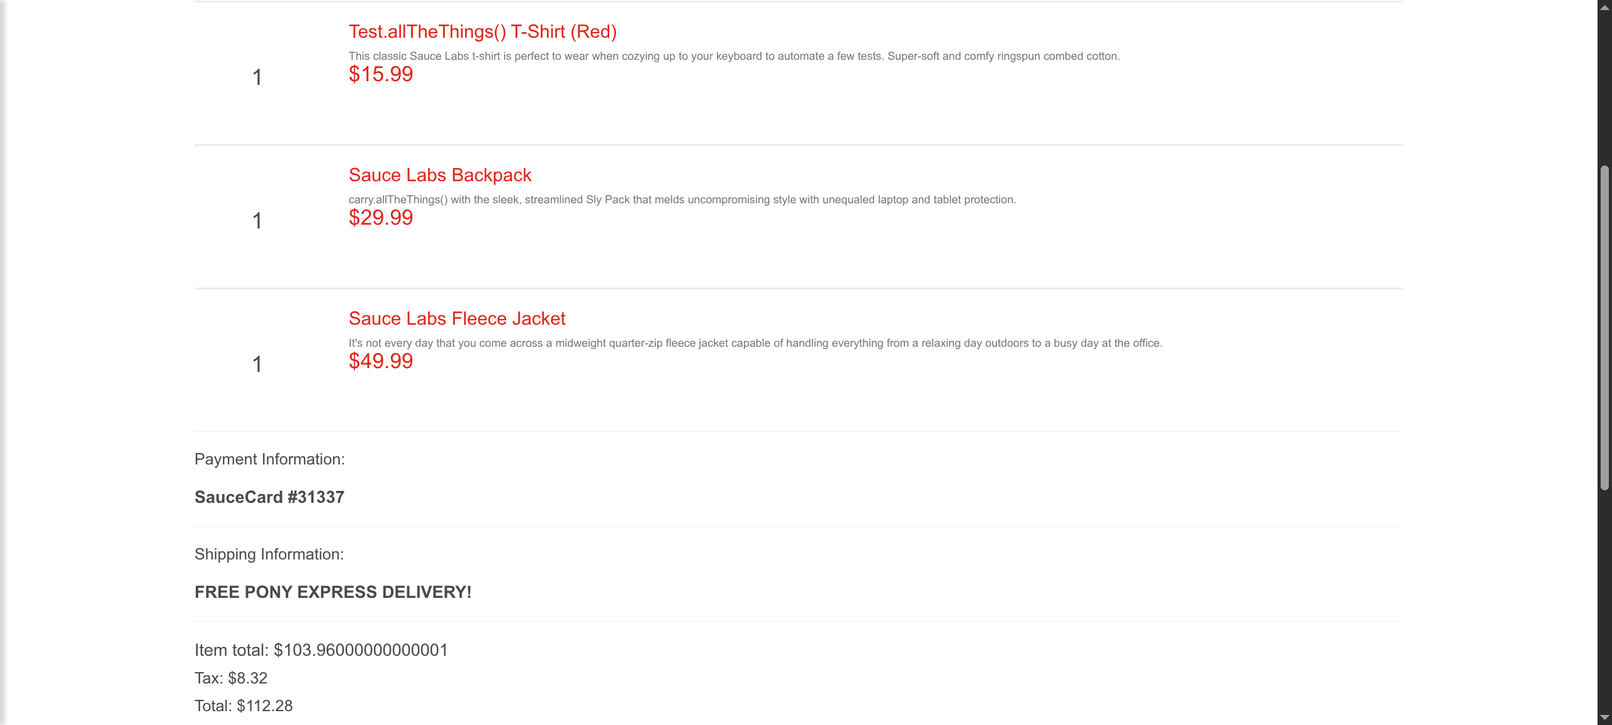
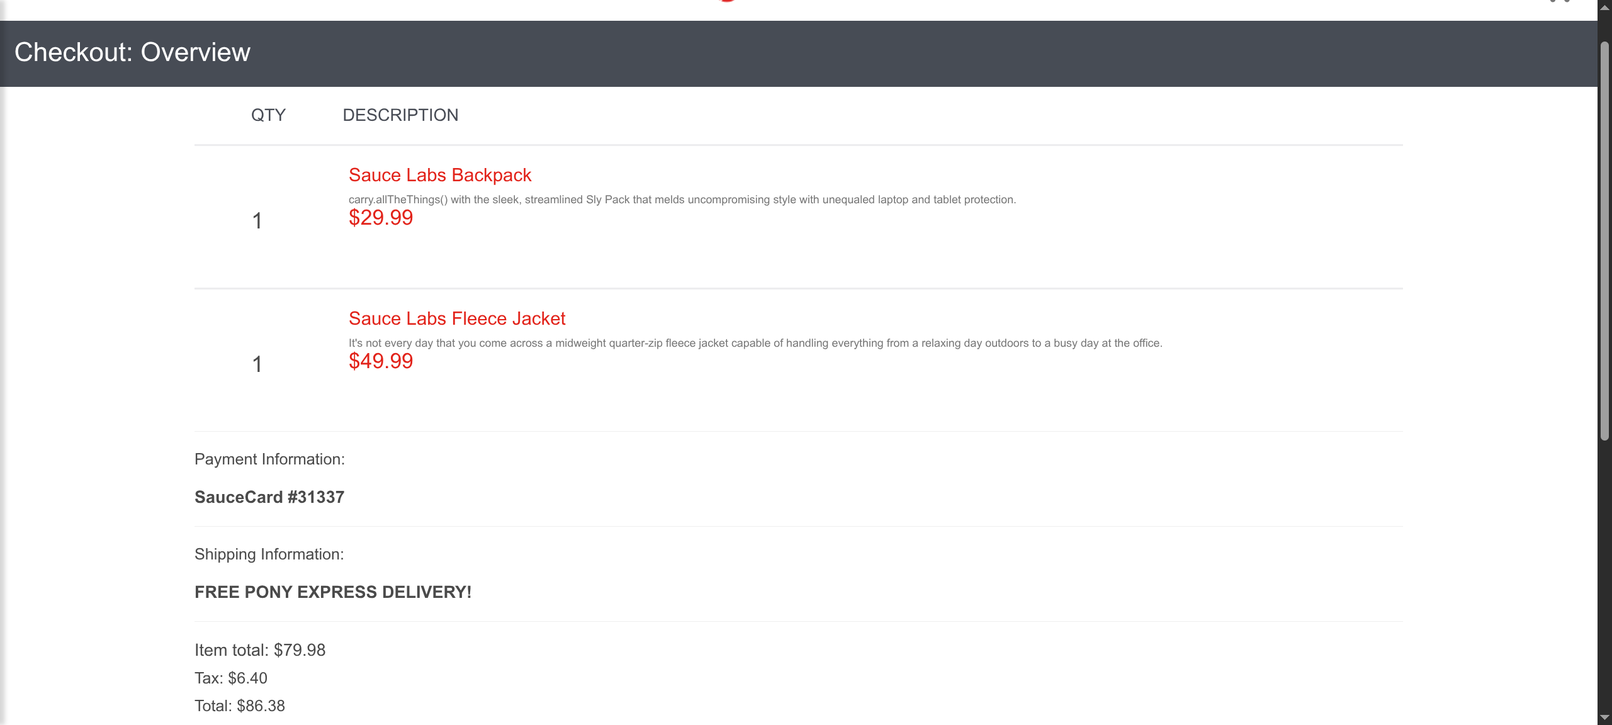
Code sanitization

diff --git a/log.html b/log.html
@@ -2074,25 +2074,25 @@ storage = function () {
 window.output = {};
 </script>
 <script type="text/javascript">
-window.output["suite"] = [1,2,3,0,[],[1,0,1750],[],[[4,0,5,[],[1,56,1694],[[0,6,0,0,0,0,0,0,[1,56,778],[[0,7,8,0,9,10,0,0,[1,57,612],[[57,2,11]]],[0,12,8,0,13,0,0,0,[1,668,12],[]],[0,14,8,0,15,16,0,0,[1,681,153],[[834,2,17]]]]],[0,18,0,0,0,0,0,0,[1,834,195],[[0,19,20,0,0,0,21,0,[1,835,6],[[0,22,20,0,0,0,23,0,[1,835,5],[[0,24,8,0,25,26,27,0,[1,835,4],[[839,2,28]]],[0,29,30,0,31,27,32,0,[1,839,0],[[839,2,33],[840,2,34]]],[8,0,0,0,0,32,0,0,[1,840,0],[]],[840,2,35]]],[0,36,30,0,37,38,39,0,[1,840,0],[[840,2,40]]],[0,36,30,0,37,41,21,0,[1,840,0],[[840,2,42]]],[8,0,0,0,0,21,0,0,[1,841,0],[]],[841,2,42]]],[0,24,8,0,25,43,44,0,[1,841,4],[[845,2,45]]],[3,46,0,0,0,0,0,0,[1,845,55],[[4,47,0,0,0,0,0,0,[1,845,18],[[0,48,8,0,49,50,0,0,[1,845,18],[[845,2,51]]]]],[4,52,0,0,0,0,0,0,[1,863,14],[[0,48,8,0,49,50,0,0,[1,863,14],[[863,2,53]]]]],[4,54,0,0,0,0,0,0,[1,877,11],[[0,48,8,0,49,50,0,0,[1,877,11],[[877,2,55]]]]],[4,56,0,0,0,0,0,0,[1,888,12],[[0,48,8,0,49,50,0,0,[1,888,12],[[888,2,57]]]]]]],[0,58,8,0,59,60,0,0,[1,900,56],[[900,2,61]]],[0,62,8,0,63,64,0,0,[1,956,2],[]],[0,14,8,0,15,65,0,0,[1,958,71],[[1029,2,66]]]]],[0,67,0,0,0,0,0,0,[1,1030,549],[[0,58,8,0,59,68,0,0,[1,1030,54],[[1030,2,69]]],[0,62,8,0,63,70,0,0,[1,1085,2],[]],[0,71,8,0,72,73,0,0,[1,1086,26],[[1087,2,74]]],[0,71,8,0,72,75,0,0,[1,1113,18],[[1113,2,76]]],[0,71,8,0,72,77,0,0,[1,1131,24],[[1131,2,78]]],[0,79,8,0,80,81,0,0,[1,1155,59],[[1155,2,82]]],[0,62,8,0,63,83,0,0,[1,1214,2],[]],[0,84,8,0,85,86,0,0,[1,1216,7],[]],[0,87,8,0,88,86,0,0,[1,1223,256],[]],[0,14,8,0,15,89,0,0,[1,1479,100],[[1579,2,90]]]]],[0,91,0,0,0,0,0,0,[1,1579,34],[[0,92,20,0,0,86,93,0,[1,1580,7],[[0,94,8,0,95,96,97,0,[1,1580,6],[[1586,2,98]]],[0,99,100,0,101,102,103,0,[1,1586,0],[[1586,2,104]]],[0,105,30,0,106,107,108,0,[1,1587,0],[[1587,2,109]]],[0,110,30,0,111,108,108,0,[1,1587,0],[[1587,2,109]]],[8,0,0,0,0,108,0,0,[1,1587,0],[]],[1587,2,112]]],[0,113,20,0,0,114,115,0,[1,1587,26],[[0,24,8,0,25,116,117,0,[1,1587,3],[[1591,2,118]]],[0,24,8,0,25,119,120,0,[1,1591,3],[[1594,2,121]]],[0,122,123,0,124,125,126,0,[1,1594,0],[[1594,2,127]]],[0,128,30,0,129,0,115,0,[1,1594,0],[[1595,2,130]]],[3,131,0,0,0,0,0,0,[1,1595,18],[[4,132,0,0,0,0,0,0,[1,1595,4],[[0,94,8,0,95,133,97,0,[1,1595,3],[[1597,2,134]]],[0,99,100,0,101,102,103,0,[1,1598,0],[[1598,2,135]]],[0,105,30,0,106,107,108,0,[1,1598,0],[[1598,2,136]]],[0,110,30,0,111,108,108,0,[1,1598,0],[[1598,2,136]]],[0,137,123,0,138,139,0,0,[1,1598,0],[]]]],[4,140,0,0,0,0,0,0,[1,1598,3],[[0,94,8,0,95,133,97,0,[1,1599,2],[[1601,2,141]]],[0,99,100,0,101,102,103,0,[1,1601,0],[[1601,2,142]]],[0,105,30,0,106,107,108,0,[1,1601,0],[[1601,2,143]]],[0,110,30,0,111,108,108,0,[1,1601,0],[[1601,2,143]]],[0,137,123,0,138,139,0,0,[1,1601,0],[]]]],[4,144,0,0,0,0,0,0,[1,1602,3],[[0,94,8,0,95,133,97,0,[1,1602,2],[[1603,2,145]]],[0,99,100,0,101,102,103,0,[1,1604,0],[[1604,2,146]]],[0,105,30,0,106,107,108,0,[1,1604,0],[[1604,2,147]]],[0,110,30,0,111,108,108,0,[1,1604,0],[[1604,2,147]]],[0,137,123,0,138,139,0,0,[1,1604,0],[]]]],[4,148,0,0,0,0,0,0,[1,1604,4],[[0,94,8,0,95,133,97,0,[1,1604,3],[[1608,2,149]]],[0,99,100,0,101,102,103,0,[1,1608,0],[[1608,2,150]]],[0,105,30,0,106,107,108,0,[1,1608,0],[[1608,2,151]]],[0,110,30,0,111,108,108,0,[1,1608,0],[[1608,2,151]]],[0,137,123,0,138,139,0,0,[1,1609,0],[]]]],[4,152,0,0,0,0,0,0,[1,1609,4],[[0,94,8,0,95,133,97,0,[1,1609,3],[[1612,2,153]]],[0,99,100,0,101,102,103,0,[1,1612,0],[[1612,2,154]]],[0,105,30,0,106,107,108,0,[1,1612,0],[[1612,2,155]]],[0,110,30,0,111,108,108,0,[1,1612,0],[[1612,2,155]]],[0,137,123,0,138,139,0,0,[1,1612,0],[]]]]]],[8,0,0,0,0,115,0,0,[1,1613,0],[]],[1613,2,156]]],[0,36,30,0,37,157,158,0,[1,1613,0],[[1613,2,159]]],[0,160,30,0,161,162,0,0,[1,1613,0],[]]]],[0,163,0,0,0,0,0,0,[1,1613,136],[[0,58,8,0,59,164,0,0,[1,1614,70],[[1614,2,165]]],[0,84,8,0,85,166,0,0,[1,1684,8],[]],[0,94,8,0,95,167,168,0,[1,1692,6],[[1698,2,169]]],[0,170,30,0,171,172,0,0,[1,1698,0],[]],[0,14,8,0,15,173,0,0,[1,1699,51],[[1749,2,174]]]]]]]],[],[1,1,0,0]];
+window.output["suite"] = [1,2,3,0,[],[1,0,3914],[],[[4,0,5,[],[1,56,3856],[[0,6,0,0,0,0,0,0,[1,57,1738],[[0,7,8,0,9,10,0,0,[1,57,1580],[[57,2,11]]],[0,12,8,0,13,0,0,0,[1,1637,12],[]],[0,14,8,0,15,16,0,0,[1,1650,145],[[1795,2,17]]]]],[0,18,0,0,0,0,0,0,[1,1795,390],[[0,19,20,0,0,0,21,0,[1,1795,6],[[0,22,20,0,0,0,23,0,[1,1795,5],[[0,24,8,0,25,26,27,0,[1,1796,5],[[1800,2,28]]],[0,29,30,0,31,27,32,0,[1,1800,0],[[1800,2,33],[1801,2,34]]],[8,0,0,0,0,32,0,0,[1,1801,0],[]],[1801,2,35]]],[0,36,30,0,37,38,39,0,[1,1801,0],[[1801,2,40]]],[0,36,30,0,37,41,21,0,[1,1801,0],[[1801,2,42]]],[8,0,0,0,0,21,0,0,[1,1801,0],[]],[1802,2,42]]],[0,24,8,0,25,43,44,0,[1,1802,5],[[1806,2,45]]],[3,46,0,0,0,0,0,0,[1,1806,33],[[4,47,0,0,0,0,0,0,[1,1807,20],[[0,48,8,0,49,50,0,0,[1,1807,19],[[1807,2,51]]]]],[4,52,0,0,0,0,0,0,[1,1826,13],[[0,48,8,0,49,50,0,0,[1,1826,12],[[1827,2,53]]]]]]],[0,54,8,0,55,56,0,0,[1,1839,295],[[1839,2,57]]],[0,58,8,0,59,60,0,0,[1,2134,2],[]],[0,14,8,0,15,61,0,0,[1,2137,48],[[2185,2,62]]]]],[0,63,0,0,0,0,0,0,[1,2186,1076],[[0,54,8,0,55,64,0,0,[1,2186,285],[[2186,2,65]]],[0,58,8,0,59,66,0,0,[1,2471,2],[]],[0,67,8,0,68,69,0,0,[1,2473,26],[[2474,2,70]]],[0,67,8,0,68,71,0,0,[1,2499,19],[[2499,2,72]]],[0,67,8,0,68,73,0,0,[1,2519,17],[[2519,2,74]]],[0,75,8,0,76,77,0,0,[1,2536,329],[[2536,2,78]]],[0,58,8,0,59,79,0,0,[1,2865,2],[]],[0,80,8,0,81,82,0,0,[1,2868,7],[]],[0,83,8,0,84,82,0,0,[1,2875,256],[]],[0,14,8,0,15,85,0,0,[1,3131,130],[[3261,2,86]]]]],[0,87,0,0,0,0,0,0,[1,3262,27],[[0,88,20,0,0,82,89,0,[1,3262,8],[[0,90,8,0,91,92,93,0,[1,3262,6],[[3268,2,94]]],[0,95,96,0,97,98,99,0,[1,3269,0],[[3269,2,100]]],[0,101,30,0,102,103,104,0,[1,3269,0],[[3269,2,105]]],[0,106,30,0,107,104,104,0,[1,3269,0],[[3269,2,105]]],[8,0,0,0,0,104,0,0,[1,3269,0],[]],[3269,2,108]]],[0,109,20,0,0,110,111,0,[1,3270,19],[[0,24,8,0,25,112,113,0,[1,3270,3],[[3273,2,114]]],[0,24,8,0,25,115,116,0,[1,3273,3],[[3276,2,117]]],[0,118,119,0,120,121,122,0,[1,3277,0],[[3277,2,123]]],[0,124,30,0,125,0,111,0,[1,3277,0],[[3277,2,126]]],[3,127,0,0,0,0,0,0,[1,3277,11],[[4,128,0,0,0,0,0,0,[1,3277,3],[[0,90,8,0,91,129,93,0,[1,3277,2],[[3279,2,130]]],[0,95,96,0,97,98,99,0,[1,3280,0],[[3280,2,131]]],[0,101,30,0,102,103,104,0,[1,3280,0],[[3280,2,132]]],[0,106,30,0,107,104,104,0,[1,3280,0],[[3280,2,132]]],[0,133,119,0,134,135,0,0,[1,3280,0],[]]]],[4,136,0,0,0,0,0,0,[1,3281,4],[[0,90,8,0,91,129,93,0,[1,3281,3],[[3284,2,137]]],[0,95,96,0,97,98,99,0,[1,3284,0],[[3284,2,138]]],[0,101,30,0,102,103,104,0,[1,3284,0],[[3284,2,139]]],[0,106,30,0,107,104,104,0,[1,3284,0],[[3284,2,139]]],[0,133,119,0,134,135,0,0,[1,3285,0],[]]]],[4,140,0,0,0,0,0,0,[1,3285,3],[[0,90,8,0,91,129,93,0,[1,3285,2],[[3287,2,141]]],[0,95,96,0,97,98,99,0,[1,3287,0],[[3287,2,142]]],[0,101,30,0,102,103,104,0,[1,3288,0],[[3288,2,143]]],[0,106,30,0,107,104,104,0,[1,3288,0],[[3288,2,144]]],[0,133,119,0,134,135,0,0,[1,3288,0],[]]]]]],[8,0,0,0,0,111,0,0,[1,3288,0],[]],[3288,2,145]]],[0,36,30,0,37,146,147,0,[1,3288,0],[[3289,2,148]]],[0,149,30,0,150,151,0,0,[1,3289,0],[]]]],[0,152,0,0,0,0,0,0,[1,3289,624],[[0,54,8,0,55,153,0,0,[1,3289,544],[[3289,2,154]]],[0,80,8,0,81,155,0,0,[1,3833,6],[]],[0,90,8,0,91,156,157,0,[1,3839,6],[[3845,2,158]]],[0,159,30,0,160,161,0,0,[1,3845,0],[]],[0,14,8,0,15,162,0,0,[1,3845,68],[[3912,2,163]]]]]]]],[],[1,1,0,0]];
 </script>
 <script type="text/javascript">
 window.output["strings"] = [];
 </script>
 <script type="text/javascript">
-window.output["strings"] = window.output["strings"].concat(["*","*Carrinho-De-Compras","*/home/generic/data/code/courses/coti/test-automation_2025-08/robot-framework/aula06/tests/carrinho-de-compras.robot","*tests/carrinho-de-compras.robot","*Scenario: Adicionar produtos ao carrinho de compras e finalizar compra","*<p>Adiciona produtos e realiza compra com sucesso\x3c/p>","*Given Eu estou na página inicial da loja virtual","*Open Browser","*SeleniumLibrary","*<p>Opens a new browser instance to the optional <code>url\x3c/code>.\x3c/p>","*${URL_BASE}    ${BROWSER_NAME}","*Opening browser 'chrome' to base url '<a href=\"https://www.saucedemo.com/v1/inventory.html\">https://www.saucedemo.com/v1/inventory.html\x3c/a>'.","*Maximize Browser Window","*<p>Maximizes current browser window.\x3c/p>","*Capture Page Screenshot","*<p>Takes a screenshot of the current page and embeds it into a log file.\x3c/p>","*screenshots/01_pagina_inicial.png","*\x3c/td>\x3c/tr><tr><td colspan=\"3\"><a href=\"screenshots/01_pagina_inicial.png\"><img src=\"screenshots/01_pagina_inicial.png\" width=\"800px\">\x3c/a>","*And Eu adiciono uma amostra aleatória de produtos ao meu carrinho","*Obter Amostra Aleatória de Itens de Inventário","*carrinho-de-compras","*@{sample}","*Contar Itens de Inventário","*${max}","*Get WebElements","*<p>Returns a list of WebElement objects matching the <code>locator\x3c/code>.\x3c/p>","*${INVENTORY_ITEMS}","*${items}","*${items} = [&lt;selenium.webdriver.remote.webelement.WebElement (session=\"8b0ca5cd733e47dcbd899ba0d6bf191b\", element=\"f.7EEAE3423D45CD5F619A8AC2FA79023F.d.5424AB6C0E909460EBCE46C9A0A23595.e.32\")&gt;, &lt;selenium.webdriv...","*Get Length","*BuiltIn","*<p>Returns and logs the length of the given item as an integer.\x3c/p>","*${count}","*Length is 6.","*${count} = 6","*${max} = 6","*Evaluate","*<p>Evaluates the given expression in Python and returns the result.\x3c/p>","*random.choice(range(1,${max}))    random","*${sample_size}","*${sample_size} = 4","*random.sample(range(0,${max}), ${sample_size})    random","*@{sample} = [ 4 | 5 | 0 | 3 ]","*${ADD_TO_CART_BUTTONS}","*@{BUTTONS}","*@{BUTTONS} = [ &lt;selenium.webdriver.remote.webelement.WebElement (session=\"8b0ca5cd733e47dcbd899ba0d6bf191b\", element=\"f.7EEAE3423D45CD5F619A8AC2FA79023F.d.5424AB6C0E909460EBCE46C9A0A23595.e.12\")&gt; | &lt;selenium.webdr...","*${item_number}    IN    @{sample}","*${item_number} = 4","*Click Element","*<p>Click the element identified by <code>locator\x3c/code>.\x3c/p>","*${BUTTONS}[${item_number}]","*Clicking element '&lt;selenium.webdriver.remote.webelement.WebElement (session=\"8b0ca5cd733e47dcbd899ba0d6bf191b\", element=\"f.7EEAE3423D45CD5F619A8AC2FA79023F.d.5424AB6C0E909460EBCE46C9A0A23595.e.42\")&gt;'.","*${item_number} = 5","*Clicking element '&lt;selenium.webdriver.remote.webelement.WebElement (session=\"8b0ca5cd733e47dcbd899ba0d6bf191b\", element=\"f.7EEAE3423D45CD5F619A8AC2FA79023F.d.5424AB6C0E909460EBCE46C9A0A23595.e.47\")&gt;'.","*${item_number} = 0","*Clicking element '&lt;selenium.webdriver.remote.webelement.WebElement (session=\"8b0ca5cd733e47dcbd899ba0d6bf191b\", element=\"f.7EEAE3423D45CD5F619A8AC2FA79023F.d.5424AB6C0E909460EBCE46C9A0A23595.e.12\")&gt;'.","*${item_number} = 3","*Clicking element '&lt;selenium.webdriver.remote.webelement.WebElement (session=\"8b0ca5cd733e47dcbd899ba0d6bf191b\", element=\"f.7EEAE3423D45CD5F619A8AC2FA79023F.d.5424AB6C0E909460EBCE46C9A0A23595.e.37\")&gt;'.","*Click Link","*<p>Clicks a link identified by <code>locator\x3c/code>.\x3c/p>","*${LINK_SHOPCART}","*Clicking link 'css=.shopping_cart_link'.","*Wait Until Location Contains","*<p>Waits until the current URL contains <code>expected\x3c/code>.\x3c/p>","*${URL_CART}","*screenshots/02_carrinho_de_compras.png","*\x3c/td>\x3c/tr><tr><td colspan=\"3\"><a href=\"screenshots/02_carrinho_de_compras.png\"><img src=\"screenshots/02_carrinho_de_compras.png\" width=\"800px\">\x3c/a>","*When Eu confirmo meus dados e solicito a realização da compra","*${LINK_CHECKOUT}","*Clicking link 'css=.checkout_button'.","*${URL_CHECKOUT}","*Input Text","*<p>Types the given <code>text\x3c/code> into the text field identified by <code>locator\x3c/code>.\x3c/p>","*${INPUT_FIRSTNAME}    ${FIRSTNAME}","*Typing text 'Pedro' into text field 'id=first-name'.","*${INPUT_LASTNAME}    ${LASTNAME}","*Typing text 'Ribeiro' into text field 'id=last-name'.","*${INPUT_ZIPCODE}    ${ZIPCODE}","*Typing text '8806355' into text field 'id=postal-code'.","*Click Button","*<p>Clicks the button identified by <code>locator\x3c/code>.\x3c/p>","*${BUTTON_CONTINUE}","*Clicking button 'css=.cart_button[value=\"CONTINUE\"]'.","*${URL_CHECKOUT_OVERVIEW}","*Wait Until Element Is Visible","*<p>Waits until the element <code>locator\x3c/code> is visible.\x3c/p>","*${TOTAL_LABEL}","*Scroll Element Into View","*<p>Scrolls the element identified by <code>locator\x3c/code> into view.\x3c/p>","*screenshots/03_resumo_de_compra.png","*\x3c/td>\x3c/tr><tr><td colspan=\"3\"><a href=\"screenshots/03_resumo_de_compra.png\"><img src=\"screenshots/03_resumo_de_compra.png\" width=\"800px\">\x3c/a>","*Then Eu verifico se o valor total corresponde aos subtotais de cada produto, mais taxas","*Obter Preço Via Elemento","*${captured_total}","*Get Text","*<p>Returns the text value of the element identified by <code>locator\x3c/code>.\x3c/p>","*${locator}","*${text}","*${text} = Total: $112.28","*Get Regexp Matches","*String","*<p>Returns a list of all non-overlapping matches in the given string.\x3c/p>","*${text}    [0-9]+\\.[0-9]+","*${matches}","*${matches} = ['112.28']","*Set Variable","*<p>Returns the given values which can then be assigned to a variables.\x3c/p>","*${matches}[0]","*${amount}","*${amount} = 112.28","*Convert To Number","*<p>Converts the given item to a floating point number.\x3c/p>","*${captured_total} = 112.28","*Obter Todos Os Preços","*${ITEM_PRICES}    ${TAX_LABEL}","*${prices}","*${locator_1}","*${elements_1}","*${elements_1} = [&lt;selenium.webdriver.remote.webelement.WebElement (session=\"8b0ca5cd733e47dcbd899ba0d6bf191b\", element=\"f.7EEAE3423D45CD5F619A8AC2FA79023F.d.9DDD0539E8A61F7B78DCB75C8A856FAF.e.76\")&gt;, &lt;selenium.webdriv...","*${locator_2}","*${elements_2}","*${elements_2} = [&lt;selenium.webdriver.remote.webelement.WebElement (session=\"8b0ca5cd733e47dcbd899ba0d6bf191b\", element=\"f.7EEAE3423D45CD5F619A8AC2FA79023F.d.9DDD0539E8A61F7B78DCB75C8A856FAF.e.80\")&gt;]","*Combine Lists","*Collections","*<p>Combines the given <code>lists\x3c/code> together and returns the result.\x3c/p>","*${elements_1}    ${elements_2}","*${elements}","*${elements} = [&lt;selenium.webdriver.remote.webelement.WebElement (session=\"8b0ca5cd733e47dcbd899ba0d6bf191b\", element=\"f.7EEAE3423D45CD5F619A8AC2FA79023F.d.9DDD0539E8A61F7B78DCB75C8A856FAF.e.76\")&gt;, &lt;selenium.webdriv...","*Create List","*<p>Returns a list containing given items.\x3c/p>","*${prices} = []","*${el}    IN    @{elements}","*${el} = &lt;selenium.webdriver.remote.webelement.WebElement (session=&quot;8b0ca5cd733e47dcbd899ba0d6bf191b&quot;, element=&quot;f.7EEAE3423D45CD5F619A8AC2FA79023F.d.9DDD0539E8A61F7B78DCB75C8A856FAF.e.76&quot;)&gt;","*${el}","*${text} = $7.99","*${matches} = ['7.99']","*${amount} = 7.99","*Append To List","*<p>Adds <code>values\x3c/code> to the end of <code>list\x3c/code>.\x3c/p>","*${prices}    ${amount}","*${el} = &lt;selenium.webdriver.remote.webelement.WebElement (session=&quot;8b0ca5cd733e47dcbd899ba0d6bf191b&quot;, element=&quot;f.7EEAE3423D45CD5F619A8AC2FA79023F.d.9DDD0539E8A61F7B78DCB75C8A856FAF.e.77&quot;)&gt;","*${text} = $15.99","*${matches} = ['15.99']","*${amount} = 15.99","*${el} = &lt;selenium.webdriver.remote.webelement.WebElement (session=&quot;8b0ca5cd733e47dcbd899ba0d6bf191b&quot;, element=&quot;f.7EEAE3423D45CD5F619A8AC2FA79023F.d.9DDD0539E8A61F7B78DCB75C8A856FAF.e.78&quot;)&gt;","*${text} = $29.99","*${matches} = ['29.99']","*${amount} = 29.99","*${el} = &lt;selenium.webdriver.remote.webelement.WebElement (session=&quot;8b0ca5cd733e47dcbd899ba0d6bf191b&quot;, element=&quot;f.7EEAE3423D45CD5F619A8AC2FA79023F.d.9DDD0539E8A61F7B78DCB75C8A856FAF.e.79&quot;)&gt;","*${text} = $49.99","*${matches} = ['49.99']","*${amount} = 49.99","*${el} = &lt;selenium.webdriver.remote.webelement.WebElement (session=&quot;8b0ca5cd733e47dcbd899ba0d6bf191b&quot;, element=&quot;f.7EEAE3423D45CD5F619A8AC2FA79023F.d.9DDD0539E8A61F7B78DCB75C8A856FAF.e.80&quot;)&gt;","*${text} = Tax: $8.32","*${matches} = ['8.32']","*${amount} = 8.32","*${prices} = [7.99, 15.99, 29.99, 49.99, 8.32]","*sum(${prices})","*${calculated_total}","*${calculated_total} = 112.28","*Should Be Equal As Numbers","*<p>Fails if objects are unequal after converting them to real numbers.\x3c/p>","*${calculated_total}    ${captured_total}","*Then Após a confirmação final, eu vejo uma mensagem de sucesso informando que a compra foi realizada","*${LINK_FINISH}","*Clicking link 'css=a.cart_button'.","*${SUCCESS_DIV}","*${SUCCESS_MESSAGE}","*${success_text}","*${success_text} = THANK YOU FOR YOUR ORDER","*Should Be Equal As Strings","*<p>Fails if objects are unequal after converting them to strings.\x3c/p>","*${success_text}    THANK YOU FOR YOUR ORDER","*screenshots/04_compra_realizada_com_sucesso.png","*\x3c/td>\x3c/tr><tr><td colspan=\"3\"><a href=\"screenshots/04_compra_realizada_com_sucesso.png\"><img src=\"screenshots/04_compra_realizada_com_sucesso.png\" width=\"800px\">\x3c/a>"]);
+window.output["strings"] = window.output["strings"].concat(["*","*Carrinho-De-Compras","*/home/generic/data/code/courses/coti/test-automation_2025-08/robot-framework/aula06/tests/carrinho-de-compras.robot","*tests/carrinho-de-compras.robot","*Scenario: Adicionar produtos ao carrinho de compras e finalizar compra","*<p>Adiciona produtos e realiza compra com sucesso\x3c/p>","*Given Eu estou na página inicial da loja virtual","*Open Browser","*SeleniumLibrary","*<p>Opens a new browser instance to the optional <code>url\x3c/code>.\x3c/p>","*${URL_BASE}    ${BROWSER_NAME}","*Opening browser 'chrome' to base url '<a href=\"https://www.saucedemo.com/v1/inventory.html\">https://www.saucedemo.com/v1/inventory.html\x3c/a>'.","*Maximize Browser Window","*<p>Maximizes current browser window.\x3c/p>","*Capture Page Screenshot","*<p>Takes a screenshot of the current page and embeds it into a log file.\x3c/p>","*screenshots/01_pagina_inicial.png","*\x3c/td>\x3c/tr><tr><td colspan=\"3\"><a href=\"screenshots/01_pagina_inicial.png\"><img src=\"screenshots/01_pagina_inicial.png\" width=\"800px\">\x3c/a>","*And Eu adiciono uma amostra aleatória de produtos ao meu carrinho","*Obter Amostra Aleatória de Itens de Inventário","*carrinho-de-compras","*@{sample}","*Contar Itens de Inventário","*${max}","*Get WebElements","*<p>Returns a list of WebElement objects matching the <code>locator\x3c/code>.\x3c/p>","*${INVENTORY_ITEMS}","*${items}","*${items} = [&lt;selenium.webdriver.remote.webelement.WebElement (session=\"ac793142aca333cbe883a9801f8b1f87\", element=\"f.7E0DD16F2B1936D4F0E81B60C5D0D28D.d.3E05ABE7AA051416D9AAA868F917B24E.e.30\")&gt;, &lt;selenium.webdriv...","*Get Length","*BuiltIn","*<p>Returns and logs the length of the given item as an integer.\x3c/p>","*${count}","*Length is 6.","*${count} = 6","*${max} = 6","*Evaluate","*<p>Evaluates the given expression in Python and returns the result.\x3c/p>","*random.choice(range(1,${max}))    random","*${sample_size}","*${sample_size} = 2","*random.sample(range(0,${max}), ${sample_size})    random","*@{sample} = [ 0 | 3 ]","*${ADD_TO_CART_BUTTONS}","*@{BUTTONS}","*@{BUTTONS} = [ &lt;selenium.webdriver.remote.webelement.WebElement (session=\"ac793142aca333cbe883a9801f8b1f87\", element=\"f.7E0DD16F2B1936D4F0E81B60C5D0D28D.d.3E05ABE7AA051416D9AAA868F917B24E.e.21\")&gt; | &lt;selenium.webdr...","*${item_number}    IN    @{sample}","*${item_number} = 0","*Click Element","*<p>Click the element identified by <code>locator\x3c/code>.\x3c/p>","*${BUTTONS}[${item_number}]","*Clicking element '&lt;selenium.webdriver.remote.webelement.WebElement (session=\"ac793142aca333cbe883a9801f8b1f87\", element=\"f.7E0DD16F2B1936D4F0E81B60C5D0D28D.d.3E05ABE7AA051416D9AAA868F917B24E.e.21\")&gt;'.","*${item_number} = 3","*Clicking element '&lt;selenium.webdriver.remote.webelement.WebElement (session=\"ac793142aca333cbe883a9801f8b1f87\", element=\"f.7E0DD16F2B1936D4F0E81B60C5D0D28D.d.3E05ABE7AA051416D9AAA868F917B24E.e.35\")&gt;'.","*Click Link","*<p>Clicks a link identified by <code>locator\x3c/code>.\x3c/p>","*${LINK_SHOPCART}","*Clicking link 'css=.shopping_cart_link'.","*Wait Until Location Contains","*<p>Waits until the current URL contains <code>expected\x3c/code>.\x3c/p>","*${URL_CART}","*screenshots/02_carrinho_de_compras.png","*\x3c/td>\x3c/tr><tr><td colspan=\"3\"><a href=\"screenshots/02_carrinho_de_compras.png\"><img src=\"screenshots/02_carrinho_de_compras.png\" width=\"800px\">\x3c/a>","*When Eu confirmo meus dados e solicito a realização da compra","*${LINK_CHECKOUT}","*Clicking link 'css=.checkout_button'.","*${URL_CHECKOUT}","*Input Text","*<p>Types the given <code>text\x3c/code> into the text field identified by <code>locator\x3c/code>.\x3c/p>","*${INPUT_FIRSTNAME}    ${FIRSTNAME}","*Typing text 'Pedro' into text field 'id=first-name'.","*${INPUT_LASTNAME}    ${LASTNAME}","*Typing text 'Ribeiro' into text field 'id=last-name'.","*${INPUT_ZIPCODE}    ${ZIPCODE}","*Typing text '8806355' into text field 'id=postal-code'.","*Click Button","*<p>Clicks the button identified by <code>locator\x3c/code>.\x3c/p>","*${BUTTON_CONTINUE}","*Clicking button 'css=.cart_button[value=\"CONTINUE\"]'.","*${URL_CHECKOUT_OVERVIEW}","*Wait Until Element Is Visible","*<p>Waits until the element <code>locator\x3c/code> is visible.\x3c/p>","*${TOTAL_LABEL}","*Scroll Element Into View","*<p>Scrolls the element identified by <code>locator\x3c/code> into view.\x3c/p>","*screenshots/03_resumo_de_compra.png","*\x3c/td>\x3c/tr><tr><td colspan=\"3\"><a href=\"screenshots/03_resumo_de_compra.png\"><img src=\"screenshots/03_resumo_de_compra.png\" width=\"800px\">\x3c/a>","*Then Eu verifico se o valor total corresponde aos subtotais de cada produto, mais taxas","*Obter Preço Via Elemento","*${captured_total}","*Get Text","*<p>Returns the text value of the element identified by <code>locator\x3c/code>.\x3c/p>","*${locator}","*${text}","*${text} = Total: $86.38","*Get Regexp Matches","*String","*<p>Returns a list of all non-overlapping matches in the given string.\x3c/p>","*${text}    [0-9]+\\.[0-9]+","*${matches}","*${matches} = ['86.38']","*Set Variable","*<p>Returns the given values which can then be assigned to a variables.\x3c/p>","*${matches}[0]","*${amount}","*${amount} = 86.38","*Convert To Number","*<p>Converts the given item to a floating point number.\x3c/p>","*${captured_total} = 86.38","*Obter Todos Os Preços","*${ITEM_PRICES}    ${TAX_LABEL}","*${prices}","*${locator_1}","*${elements_1}","*${elements_1} = [&lt;selenium.webdriver.remote.webelement.WebElement (session=\"ac793142aca333cbe883a9801f8b1f87\", element=\"f.7E0DD16F2B1936D4F0E81B60C5D0D28D.d.F0097FA21783C37B92014105D908F9F8.e.75\")&gt;, &lt;selenium.webdriv...","*${locator_2}","*${elements_2}","*${elements_2} = [&lt;selenium.webdriver.remote.webelement.WebElement (session=\"ac793142aca333cbe883a9801f8b1f87\", element=\"f.7E0DD16F2B1936D4F0E81B60C5D0D28D.d.F0097FA21783C37B92014105D908F9F8.e.77\")&gt;]","*Combine Lists","*Collections","*<p>Combines the given <code>lists\x3c/code> together and returns the result.\x3c/p>","*${elements_1}    ${elements_2}","*${elements}","*${elements} = [&lt;selenium.webdriver.remote.webelement.WebElement (session=\"ac793142aca333cbe883a9801f8b1f87\", element=\"f.7E0DD16F2B1936D4F0E81B60C5D0D28D.d.F0097FA21783C37B92014105D908F9F8.e.75\")&gt;, &lt;selenium.webdriv...","*Create List","*<p>Returns a list containing given items.\x3c/p>","*${prices} = []","*${el}    IN    @{elements}","*${el} = &lt;selenium.webdriver.remote.webelement.WebElement (session=&quot;ac793142aca333cbe883a9801f8b1f87&quot;, element=&quot;f.7E0DD16F2B1936D4F0E81B60C5D0D28D.d.F0097FA21783C37B92014105D908F9F8.e.75&quot;)&gt;","*${el}","*${text} = $29.99","*${matches} = ['29.99']","*${amount} = 29.99","*Append To List","*<p>Adds <code>values\x3c/code> to the end of <code>list\x3c/code>.\x3c/p>","*${prices}    ${amount}","*${el} = &lt;selenium.webdriver.remote.webelement.WebElement (session=&quot;ac793142aca333cbe883a9801f8b1f87&quot;, element=&quot;f.7E0DD16F2B1936D4F0E81B60C5D0D28D.d.F0097FA21783C37B92014105D908F9F8.e.76&quot;)&gt;","*${text} = $49.99","*${matches} = ['49.99']","*${amount} = 49.99","*${el} = &lt;selenium.webdriver.remote.webelement.WebElement (session=&quot;ac793142aca333cbe883a9801f8b1f87&quot;, element=&quot;f.7E0DD16F2B1936D4F0E81B60C5D0D28D.d.F0097FA21783C37B92014105D908F9F8.e.77&quot;)&gt;","*${text} = Tax: $6.40","*${matches} = ['6.40']","*${amount} = 6.40","*${amount} = 6.4","*${prices} = [29.99, 49.99, 6.4]","*sum(${prices})","*${calculated_total}","*${calculated_total} = 86.38","*Should Be Equal As Numbers","*<p>Fails if objects are unequal after converting them to real numbers.\x3c/p>","*${calculated_total}    ${captured_total}","*Then Após a confirmação final, eu vejo uma mensagem de sucesso informando que a compra foi realizada","*${LINK_FINISH}","*Clicking link 'css=a.cart_button'.","*${SUCCESS_DIV}","*${SUCCESS_MESSAGE}","*${success_text}","*${success_text} = THANK YOU FOR YOUR ORDER","*Should Be Equal As Strings","*<p>Fails if objects are unequal after converting them to strings.\x3c/p>","*${success_text}    THANK YOU FOR YOUR ORDER","*screenshots/04_compra_realizada_com_sucesso.png","*\x3c/td>\x3c/tr><tr><td colspan=\"3\"><a href=\"screenshots/04_compra_realizada_com_sucesso.png\"><img src=\"screenshots/04_compra_realizada_com_sucesso.png\" width=\"800px\">\x3c/a>"]);
 </script>
 <script type="text/javascript">
-window.output["stats"] = [[{"elapsed":"00:00:02","fail":0,"label":"All Tests","pass":1,"skip":0}],[],[{"elapsed":"00:00:02","fail":0,"id":"s1","label":"Carrinho-De-Compras","name":"Carrinho-De-Compras","pass":1,"skip":0}]];
+window.output["stats"] = [[{"elapsed":"00:00:04","fail":0,"label":"All Tests","pass":1,"skip":0}],[],[{"elapsed":"00:00:04","fail":0,"id":"s1","label":"Carrinho-De-Compras","name":"Carrinho-De-Compras","pass":1,"skip":0}]];
 </script>
 <script type="text/javascript">
 window.output["errors"] = [];
 </script>
 <script type="text/javascript">
-window.output["baseMillis"] = 1756843223238;
+window.output["baseMillis"] = 1756845864898;
 </script>
 <script type="text/javascript">
-window.output["generated"] = 1752;
+window.output["generated"] = 3916;
 </script>
 <script type="text/javascript">
 window.output["expand_keywords"] = null;

diff --git a/report.html b/report.html
@@ -1887,7 +1887,7 @@ storage = function () {
 window.output = {};
 </script>
 <script type="text/javascript">
-window.output["suite"] = [1,2,3,0,[],[1,0,1750],[],[[4,0,5,[],[1,56,1694],[]]],[],[1,1,0,0]];
+window.output["suite"] = [1,2,3,0,[],[1,0,3914],[],[[4,0,5,[],[1,56,3856],[]]],[],[1,1,0,0]];
 </script>
 <script type="text/javascript">
 window.output["strings"] = [];
@@ -1896,13 +1896,13 @@ window.output["strings"] = [];
 window.output["strings"] = window.output["strings"].concat(["*","*Carrinho-De-Compras","*/home/generic/data/code/courses/coti/test-automation_2025-08/robot-framework/aula06/tests/carrinho-de-compras.robot","*tests/carrinho-de-compras.robot","*Scenario: Adicionar produtos ao carrinho de compras e finalizar compra","*<p>Adiciona produtos e realiza compra com sucesso\x3c/p>"]);
 </script>
 <script type="text/javascript">
-window.output["stats"] = [[{"elapsed":"00:00:02","fail":0,"label":"All Tests","pass":1,"skip":0}],[],[{"elapsed":"00:00:02","fail":0,"id":"s1","label":"Carrinho-De-Compras","name":"Carrinho-De-Compras","pass":1,"skip":0}]];
+window.output["stats"] = [[{"elapsed":"00:00:04","fail":0,"label":"All Tests","pass":1,"skip":0}],[],[{"elapsed":"00:00:04","fail":0,"id":"s1","label":"Carrinho-De-Compras","name":"Carrinho-De-Compras","pass":1,"skip":0}]];
 </script>
 <script type="text/javascript">
-window.output["baseMillis"] = 1756843223238;
+window.output["baseMillis"] = 1756845864898;
 </script>
 <script type="text/javascript">
-window.output["generated"] = 1752;
+window.output["generated"] = 3916;
 </script>
 <script type="text/javascript">
 window.output["expand_keywords"] = null;
